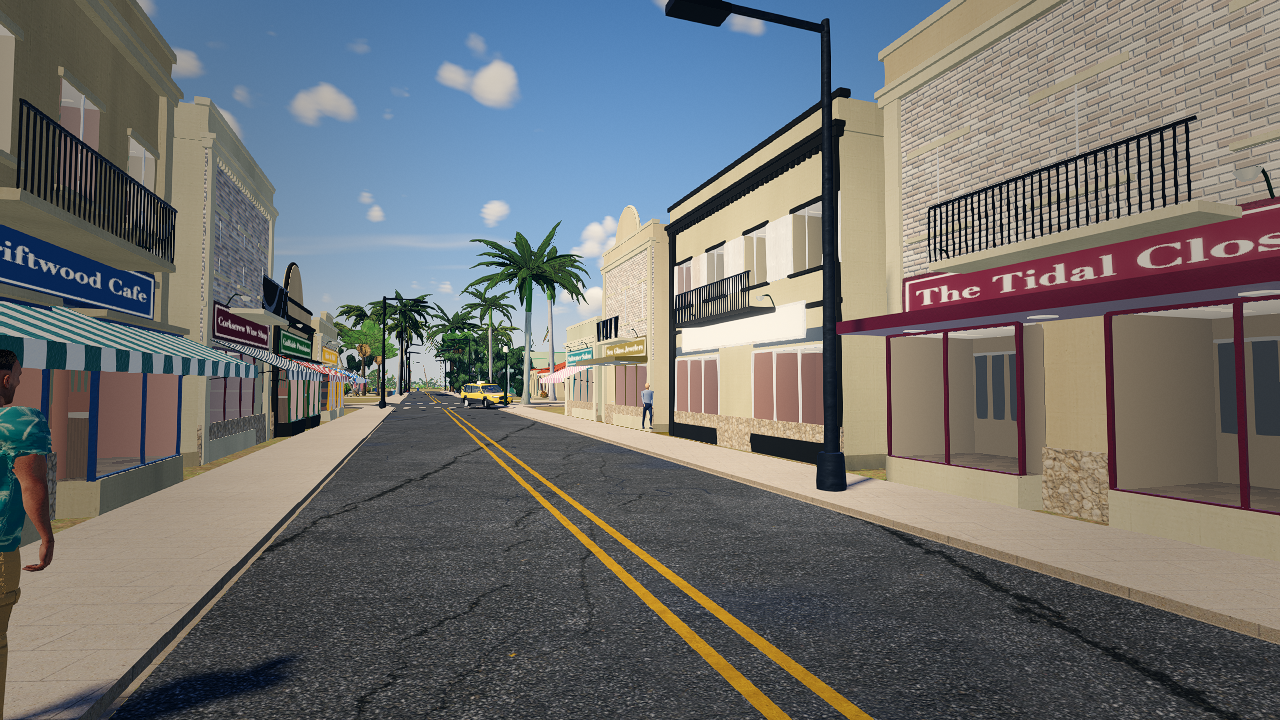
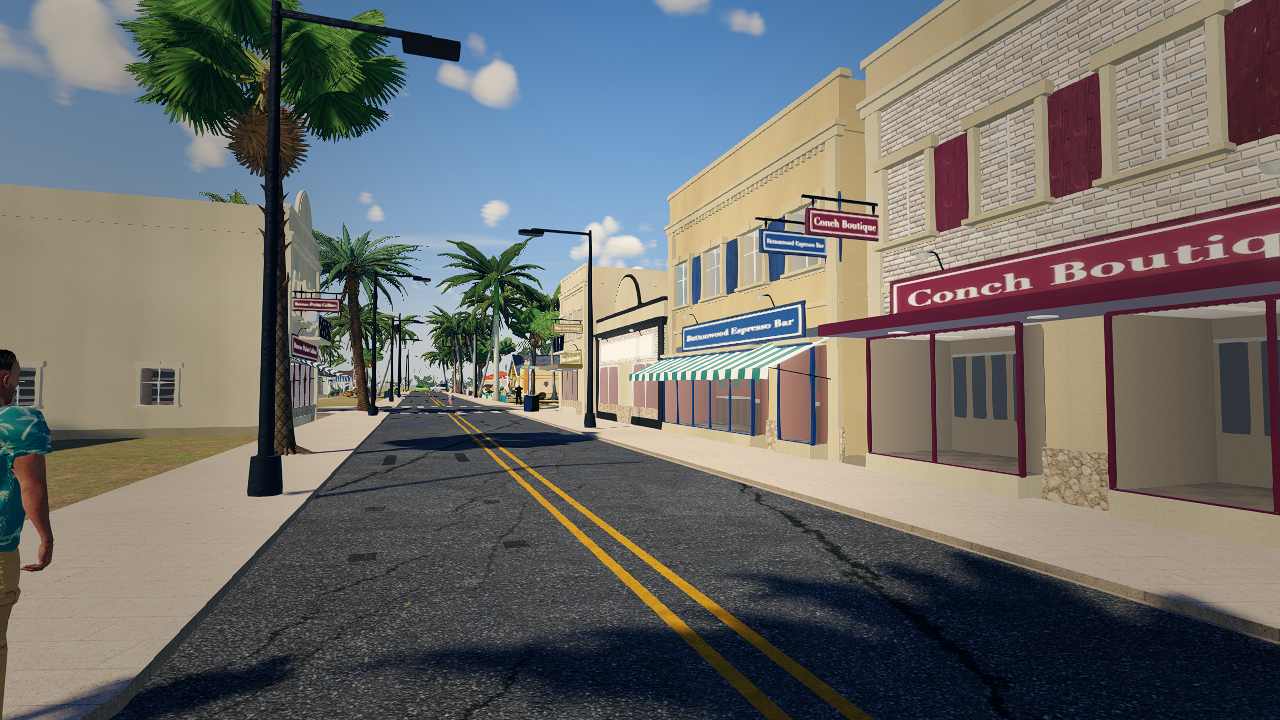
V2.1 towns pass 3: framed recessed upper windows, AC units, flower boxes, hanging signs, map-wide unique shop names, denser curb palms, towns on terrain height

diff --git a/src/world/setpieces/towns/towns.js b/src/world/setpieces/towns/towns.js
@@ -24,6 +24,25 @@ const NAME = {
   boutique: ['Linen & Salt', 'The Tidal Closet', 'Mangrove Mercantile'], gallery: ['Driftline Gallery', 'Tern Art House'], wine: ['Vine & Brine Cellars', 'Corkscrew Wine Shop'], jeweler: ['Sea Glass Jewelers', 'Pearl & Compass'], salon: ['Saltwater Salon', 'Breeze Hair Studio'], deli: ['Market Street Deli', 'Gulfside Provisions'], toys: ['Sandcastle Toys', 'Kite & Pail'],
 };
 
+// Shop names: a coastal word (or the town's own name) + a trade word, picked by a hash of town, kind and slot, never
+// repeating anywhere on the map (one registry for every town in the session).
+const WORDS = ['Pelican', 'Tarpon', 'Heron', 'Coral', 'Mangrove', 'Driftwood', 'Saltwater', 'Seabreeze', 'Sandpiper', 'Conch', 'Palmetto', 'Bayside', 'Harbor', 'Tidewater', 'Sunset', 'Lighthouse', 'Osprey', 'Manatee', 'Key Lime', 'Gulfstream', 'Sea Grape', 'Blue Crab', 'Pompano', 'Snook', 'Cormorant', 'Egret', 'Sawgrass', 'Coquina', 'Old Pier', 'Anchor', 'Compass', 'Trade Wind', 'Starfish', 'Moonfish', 'Buttonwood', 'Royal Palm', 'Breakwater', 'Lagoon', 'Tide Pool', 'Shell Road', 'Brine', 'Cypress', 'Spoonbill', 'Barefoot', 'Sea Oat', 'Marlin', 'Kingfish', 'Bonefish', 'Hammock', 'Breeze Point'];
+const TRADE = { cafe: ['Cafe', 'Coffee House', 'Coffee Co.', 'Espresso Bar', 'Roasters'], pharmacy: ['Pharmacy', 'Drug Co.', 'Apothecary', 'Drugs & Sundries'], hardware: ['Hardware', 'Hardware & Marine', 'Supply Co.', 'Tool & Tackle'],
+  bakery: ['Bakery', 'Bread Co.', 'Pastry Shop', 'Bake House'], diner: ['Diner', 'Luncheonette', 'Grill', 'Eatery'], bank: ['Savings Bank', 'Trust Co.', 'National Bank', 'Bank & Trust'], books: ['Books', 'Bookshop', 'Book Exchange', 'Readers'],
+  barber: ['Barber Shop', 'Barbers', 'Cuts'], bait: ['Bait & Tackle', 'Bait Shop', 'Tackle Co.', 'Fish Camp'], florist: ['Florist', 'Flowers', 'Blooms', 'Garden Shop'], seafood: ['Fish Market', 'Seafood', 'Fish House', 'Catch Co.'],
+  realty: ['Realty', 'Properties', 'Land Co.', 'Homes'], icecream: ['Creamery', 'Ice Cream', 'Scoops', 'Frozen Treats'], laundry: ['Laundry', 'Wash House', 'Laundromat', 'Cleaners'], motel: ['Motel', 'Motor Inn', 'Inn', 'Cottages'],
+  church: ['Chapel', 'Community Church', 'Church', 'Fellowship Hall'], school: ['Elementary', 'Academy', 'School', 'Day School'], marina: ['Marina', 'Harbor Master', 'Boat Works', 'Dock Office'], boutique: ['Boutique', 'Mercantile', 'Outfitters', 'Closet'],
+  gallery: ['Gallery', 'Art House', 'Studio', 'Arts'], wine: ['Wine Shop', 'Cellars', 'Wine & Spirits', 'Vintners'], jeweler: ['Jewelers', 'Jewelry', 'Gems', 'Goldsmith'], salon: ['Salon', 'Hair Studio', 'Beauty Bar', 'Spa'],
+  deli: ['Deli', 'Provisions', 'Market', 'Sandwich Shop'], toys: ['Toys', 'Toy Shop', 'Kites & Toys', 'Playthings'] };
+const NAMES_USED = new Set();
+export function pickName(townName, short, kind, slot) {
+  const h = (str) => { let x = 2166136261; for (let i = 0; i < str.length; i++) { x ^= str.charCodeAt(i); x = Math.imul(x, 16777619); } return x >>> 0; };
+  const T = TRADE[kind] || ['Shop'], civic = /bank|church|school|motel|marina/.test(kind), base = h(townName + '|' + kind + '|' + slot);
+  for (let i = 0; i < 400; i++) { const wi = (base + i * 7919) % (WORDS.length + 1), word = civic && i < 2 ? short : wi === WORDS.length ? short : WORDS[wi], name = word + ' ' + T[((base >>> 8) + i) % T.length];
+    if (!NAMES_USED.has(name)) { NAMES_USED.add(name); return name; } }
+  return short + ' ' + T[0] + ' ' + slot;
+}
+
 export function planTown(town, env) {
   const { D, isWater, roadDist, groundAt, buildingsNear, lots } = env;
   const rg = D.roadGraph, cx = town.x, cz = town.z, R = Math.min(330, Math.max(180, (town.r || 600) * 0.4));
@@ -90,7 +109,7 @@ export function planTown(town, env) {
     sh.seed = (Math.round(sh.x * 31 + sh.z * 17) >>> 0) || 1;
     sh.colors = { body: hex(BODY[(k2 * 7 + 3) % BODY.length]), trim: [0xfaf6ee, 0xf2ede2, 0xe6dccb, 0xfdfaf2, 0x2a2a2a][quarter && k2 % 3 === 0 ? 4 : k2 % 4], accent: hex(P[k2 % P.length]), awn: hex(P[(k2 + 1) % P.length]), interior: [0xc8a070, 0xa8b0a8, 0xd0b088, 0x8ea4b4, 0xc08e78, 0xb8a890][(k2 * 3 + (kind.length)) % 6] };   // mid-tone room walls (the glass shows them)
     sh.stories = KINDS[kind].stories[(k2 + (sh.seed & 1)) % KINDS[kind].stories.length];
-    const names = NAME[kind].map((n) => n.replace('%T', short)), tOff = Math.abs(Math.round(cx + cz)) % 7; sh.name = names.find((n, j) => !usedNames.has(n) && j >= ((tOff + k2) % names.length)) || names.find((n) => !usedNames.has(n)); if (!sh.name) return false; usedNames.add(sh.name);
+    sh.name = pickName(town.name, short, kind, k2); usedNames.add(sh.name);
     // facade by rule: working shops on the water get board and batten with a false front, the bank stone, the quarter
     // brick and stone, the rest stucco; a building never shares facade and cornice with its neighbor on the same side
     let fac = /bait|seafood|marina/.test(kind) ? 'batten' : kind === 'bank' ? 'stone' : quarter ? (k2 % 2 ? 'brick' : 'stucco') : FACADES[(sh.seed >>> 5) % FACADES.length];
@@ -141,14 +160,14 @@ export function planTown(town, env) {
   // ---- street trees in grates: every 12 m at the curb, never under an awning reach, 5 m from lamps, clear of junctions ----
   const lampsXZ = out.furniture.filter((f) => f.kind === 'lamp');
   for (const list of rows) { const quarterRow = list === sides[0]?.list;
-    for (const f of list) for (const side of [1, -1]) { const key = Math.round((f.x * f.tx + f.z * f.tz) / 2); if (key % 6 !== 3) continue; if (nearJunction(f.x, f.z, f.hw + 7)) continue;
+    for (const f of list) for (const side of [1, -1]) { const key = Math.round((f.x * f.tx + f.z * f.tz) / 2); if (key % 4 !== 1) continue; if (nearJunction(f.x, f.z, f.hw + 6)) continue;   // every 8 m
       const nx = -f.tz * side, nz = f.tx * side, x = f.x + nx * (f.hw + 0.95), z = f.z + nz * (f.hw + 0.95);
-      if (lampsXZ.some((l) => Math.hypot(l.x - x, l.z - z) < 5)) continue;
+      if (lampsXZ.some((l) => Math.hypot(l.x - x, l.z - z) < 3.6)) continue;   // the lamp head stays clear of a palm crown at 3.6 m
       const q = { x, z, ry: Math.atan2(f.tx, f.tz), hw: 0.7, hd: 0.7, kind: 'grate' }; if (!free(q, { roadPad: 0.15 })) continue;
       // crown clearance: no shop facade within 2.2 m of the trunk
-      if (out.shops.some((sh) => { const dx = x - sh.x, dz = z - sh.z, c = Math.cos(sh.ry), sn = Math.sin(sh.ry), u = Math.abs(dx * c - dz * sn), v = Math.abs(dx * sn + dz * c); return u < sh.w / 2 + 2.2 && v < sh.d / 2 + 2.2; })) continue;
+      if (out.shops.some((sh) => { const dx = x - sh.x, dz = z - sh.z, c = Math.cos(sh.ry), sn = Math.sin(sh.ry), u = Math.abs(dx * c - dz * sn), v = Math.abs(dx * sn + dz * c); return u < sh.w / 2 + 1.7 && v < sh.d / 2 + 1.7; })) continue;   // narrow palm crowns: 1.7 m from any facade
       add(q); const y = groundAt(x, z); out.furniture.push({ ...q, y });
-      out.trees.push({ kind: quarterRow ? 'gumbo' : (key / 6 | 0) % 2 ? 'sabal' : 'queen', x, z, y: y + 0.1, s: quarterRow ? 0.55 : 0.75, small: false }); } }
+      out.trees.push({ kind: quarterRow ? ((key / 4 | 0) % 2 ? 'queen' : 'date') : (key / 4 | 0) % 2 ? 'sabal' : 'queen', x, z, y: y + 0.1, s: 0.7, small: false }); } }   // palms only at the curb: a broad shade crown would hang over the lanes
   // plaza furniture: fountain in the middle, four shade trees, benches around, cafe tables on the street side
   if (out.plaza) { const P = out.plaza, c = Math.cos(P.ry), sn = Math.sin(P.ry), at = (u, v) => ({ x: P.x + c * u + sn * v, z: P.z - sn * u + c * v });
     out.plazaY = groundAt(P.x, P.z);

diff --git a/src/world/setpieces/towns/shops.js b/src/world/setpieces/towns/shops.js
@@ -107,11 +107,16 @@ export function buildShop(hk, s, lod = 0) {
     for (let i = 0; i < uv.count; i++) { uv.setX(i, c.u0 + uv.getX(i) * (c.u1 - c.u0)); uv.setY(i, c.v0 + uv.getY(i) * (c.v1 - c.v0)); }
     B.geo(s.signMat, g, M(x, y, z, 0, ry), {});
   }
-  function win(x, y0, z, ww, wh, ry, k) {   // punched window: frame, sill, glass (lit at night), on a side or upper wall
+  function win(x, y0, z, ww, wh, ry, k) {   // punched window set deep: projecting surround (jambs, lintel, sill) so the glass sits 0.16 m back
     const lit = ((s.seed >> (k & 7)) & 1) && r() < 0.8 ? 0.4 + r() * 0.6 : 0, cur = [0xe8dcc0, 0xf2eee4, 0xd8c8a0, 0xc8d8e0, 0xe8c8b0][(r() * 5) | 0];
-    B.box(SG, ww, wh, 0.03, M(x, y0 + wh / 2, z, 0, ry), { color: cur, wear: rw(lit * 0.8) });
-    if (L1) { B.box(STU, ww + 0.2, 0.08, 0.14, M(x, y0 - 0.04, z, 0, ry).multiply(M(0, 0, 0.05)), { color: trim, wear: 0.3 }); B.box(STU, ww + 0.16, 0.12, 0.06, M(x, y0 + wh + 0.06, z, 0, ry).multiply(M(0, 0, 0.03)), { color: trim, wear: 0.3 }); }
-    if (L0) B.box(MET, 0.03, wh, 0.04, M(x, y0 + wh / 2, z, 0, ry).multiply(M(0, 0, 0.02)), { color: 0xf0f0ec });
+    const P = (lx, ly, lz) => M(x, y0, z, 0, ry).multiply(M(lx, ly, lz)), dep = 0.17, stone = s.facade === 'brick' || s.facade === 'stone' ? 0xe6dfd0 : trim;
+    B.box(SG, ww, wh, 0.03, P(0, wh / 2, 0.01), { color: cur, wear: rw(lit * 0.8) });
+    if (!L1) return;
+    for (const sx of [-1, 1]) B.box(STU, 0.12, wh + 0.08, dep, P(sx * (ww / 2 + 0.06), wh / 2, dep / 2), { color: trim, wear: 0.25 });       // jambs / reveals
+    B.box(STU, ww + 0.42, 0.2, dep + 0.04, P(0, wh + 0.1, (dep + 0.04) / 2), { color: stone, wear: 0.25 });                                   // lintel
+    B.box(STU, ww + 0.38, 0.08, dep + 0.1, P(0, -0.04, (dep + 0.1) / 2), { color: stone, wear: 0.35 });                                        // sill
+    if (L0) { B.box(STU, ww + 0.2, 0.06, 0.05, P(0, -0.11, 0.05), { color: stone }); B.box(MET, 0.03, wh, 0.04, P(0, wh / 2, 0.03), { color: 0xf0f0ec }); B.box(MET, ww, 0.03, 0.04, P(0, wh * 0.62, 0.03), { color: 0xf0f0ec });
+      if (s.facade !== 'brick' && ww > 0.8) B.box(STU, 0.16, 0.24, 0.06, P(0, wh + 0.12, dep + 0.05), { color: stone }); }                // keystone
   }
   function storefront() {
     const kick = 0.5, gy0 = kick, gy1 = signY0 - 0.25, doorW = front === 'wide' ? 1.8 : 1.0, doorU = front === 'narrow' ? (r() < 0.5 ? -1 : 1) * (w / 2 - 1.2) : (r() < 0.7 ? 0 : (r() < 0.5 ? -1 : 1) * w * 0.25);
@@ -159,6 +164,11 @@ export function buildShop(hk, s, lod = 0) {
     for (let k = 0; k < n; k++) { const x = x0 + (w / n) * (k + 0.5); win(x, y0, z1 + 0.01, w / n * 0.5, 1.5, 0, k + fl * 3); if (L1 && s.shutters) for (const sx of [-1, 1]) box(PAINT, w / n * 0.26, 1.55, 0.04, x + sx * (w / n * 0.39), y0 + 0.75, z1 + 0.04, { color: acc, wear: 0.3 }); }
     if (s.balcony && L1) { box(CONC, w * 0.5, 0.12, 0.9, 0, fl * FL + 0.1, z1 + 0.45, { color: trim }); for (let x = -w * 0.25; x <= w * 0.25 + 0.01; x += L0 ? 0.12 : w * 0.5) box(MET, L0 ? 0.02 : w * 0.5, 0.9, L0 ? 0.02 : 0.01, L0 ? x : 0, fl * FL + 0.6, z1 + 0.88, { color: 0x1a1a1a }); box(MET, w * 0.5, 0.04, 0.04, 0, fl * FL + 1.05, z1 + 0.88, { color: 0x1a1a1a }); }
     box(STU, w + 0.1, 0.12, 0.12, 0, fl * FL + 0.05, z1 + 0.05, { color: trim, wear: 0.25 });   // floor band
+    if (L1) for (let k = 0; k < n; k++) { const x = x0 + (w / n) * (k + 0.5), ww = w / n * 0.5;
+      if ((s.seed >>> (k + fl)) % 5 === 1) { box(MET, ww * 0.8, 0.42, 0.6, x, y0 + 0.24, z1 + 0.28, { color: 0xd8d6cc, wear: 0.4 }); if (L0) for (let j = 0; j < 6; j++) box(MET, ww * 0.7, 0.012, 0.01, x, y0 + 0.08 + j * 0.05, z1 + 0.585, { color: 0x8a8a84 }); }   // window AC
+      else if (!s.balcony && (s.seed >>> (k + 2)) % 3 === 0) { box(WOOD, ww + 0.1, 0.22, 0.26, x, y0 - 0.2, z1 + 0.25, { color: 0x6a4a30, wear: 0.4 }); if (L0) for (let j = 0; j < 5; j++) B.geo(PLAST, new THREE.SphereGeometry(0.12, 6, 4), M(x - ww / 2 + 0.1 + j * (ww / 4), y0 - 0.02, z1 + 0.25, 0, 0, 0, 1, 0.8, 1), { color: [0xd8304a, 0xf0c020, 0x3a7a2a, 0xe86aa0][j % 4] }); } }   // flower box
+    // second-floor signage: a projecting blade sign by the corner (the shop's own name) on two-story shops
+    if (fl === 1 && s.sign && L1 && !/bank|church|school|motel/.test(s.kind)) { const bx = (s.seed & 1 ? 1 : -1) * (w / 2 - 0.35); box(MET, 0.05, 0.05, 1.9, bx, FL + 1.75, z1 + 0.95, { color: 0x1a1a1a }); for (const dz of [0.25, 1.65]) box(MET, 0.03, 0.2, 0.03, bx, FL + 1.63, z1 + dz, { color: 0x1a1a1a }); box(PAINT, 0.08, 0.5, 1.7, bx, FL + 1.28, z1 + 0.95, { color: acc }); signCard(1.6, 0.4, bx + 0.045, FL + 1.28, z1 + 0.95, Math.PI / 2); signCard(1.6, 0.4, bx - 0.045, FL + 1.28, z1 + 0.95, -Math.PI / 2); }
   }
   function bankFront() {
     box(mat.stoneVeneer(), w, 1.0, 0.14, 0, 0.5, z1 + 0.07, { color: 0xe8e2d4 });

diff --git a/src/world/setpieces/towns/towns.v2.js b/src/world/setpieces/towns/towns.v2.js
@@ -24,7 +24,8 @@ export async function initV2(game) {
   if (!list.length) return;
   const root = new THREE.Group(); root.name = 'towns'; game.scene.add(root);
   const stats = {};
-  const groundAt = (x, z) => { try { return Math.max(0, D.terrainHeightAt ? D.terrainHeightAt(x, z) : 0); } catch (e) { return 0; } };
+  // ground: the city's own surface query (terrain relief included), so buildings and furniture sit where the ground is drawn
+  const groundAt = (x, z) => { try { const g = city.groundHeightAt ? city.groundHeightAt(x, z) : (D.terrainHeightAt ? D.terrainHeightAt(x, z) : 0); return Number.isFinite(g) ? Math.max(0, g) : 0; } catch (e) { return 0; } };
   const roadDist = (x, z) => { const r = D.roadGraph.nearestEdge(x, z, {}, 30); return r ? r.dist - r.edge.width / 2 : 99; };
   const isWater = (x, z) => { try { return city.isWater(x, z); } catch (e) { return false; } };
   const TS = D.tileSize || 200;
